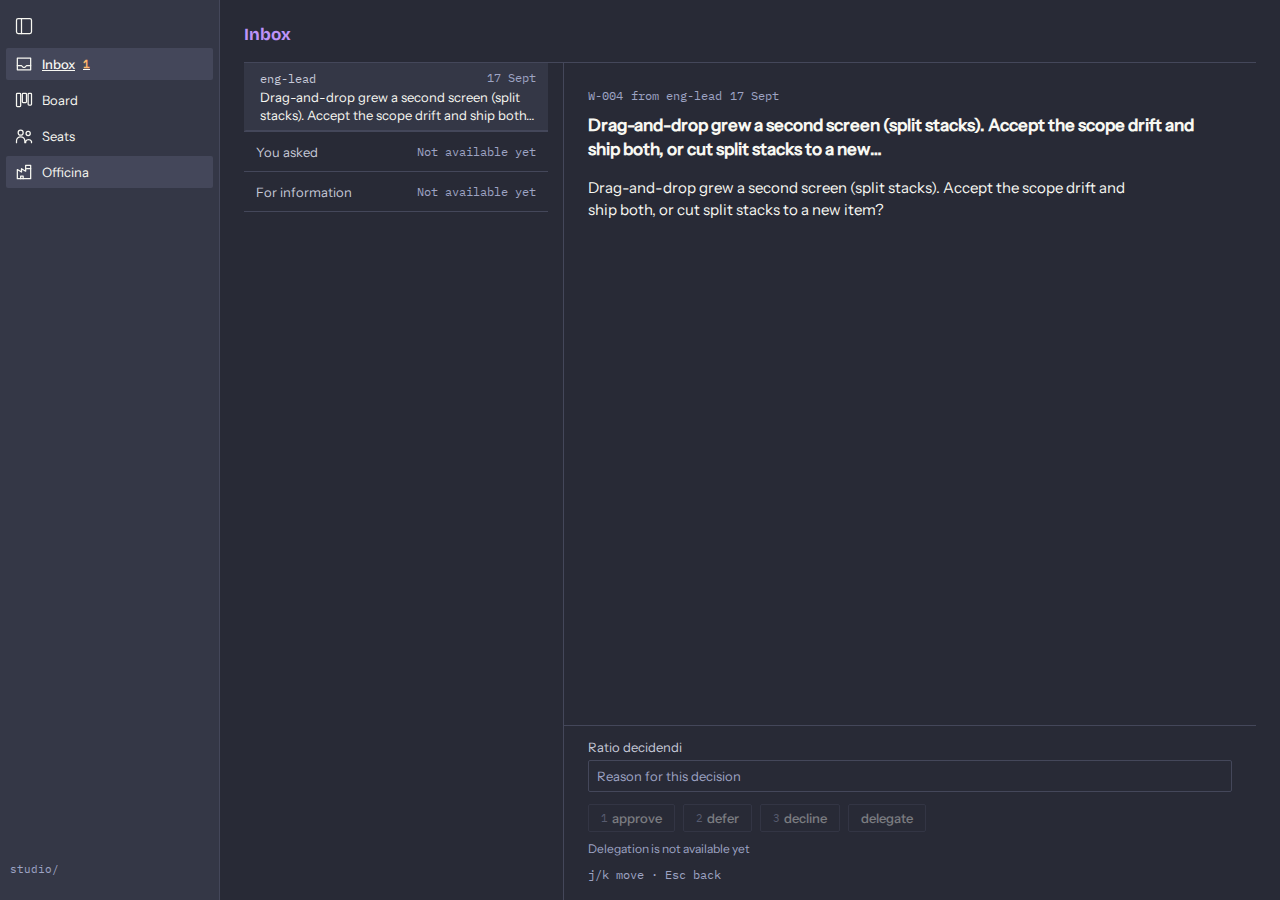
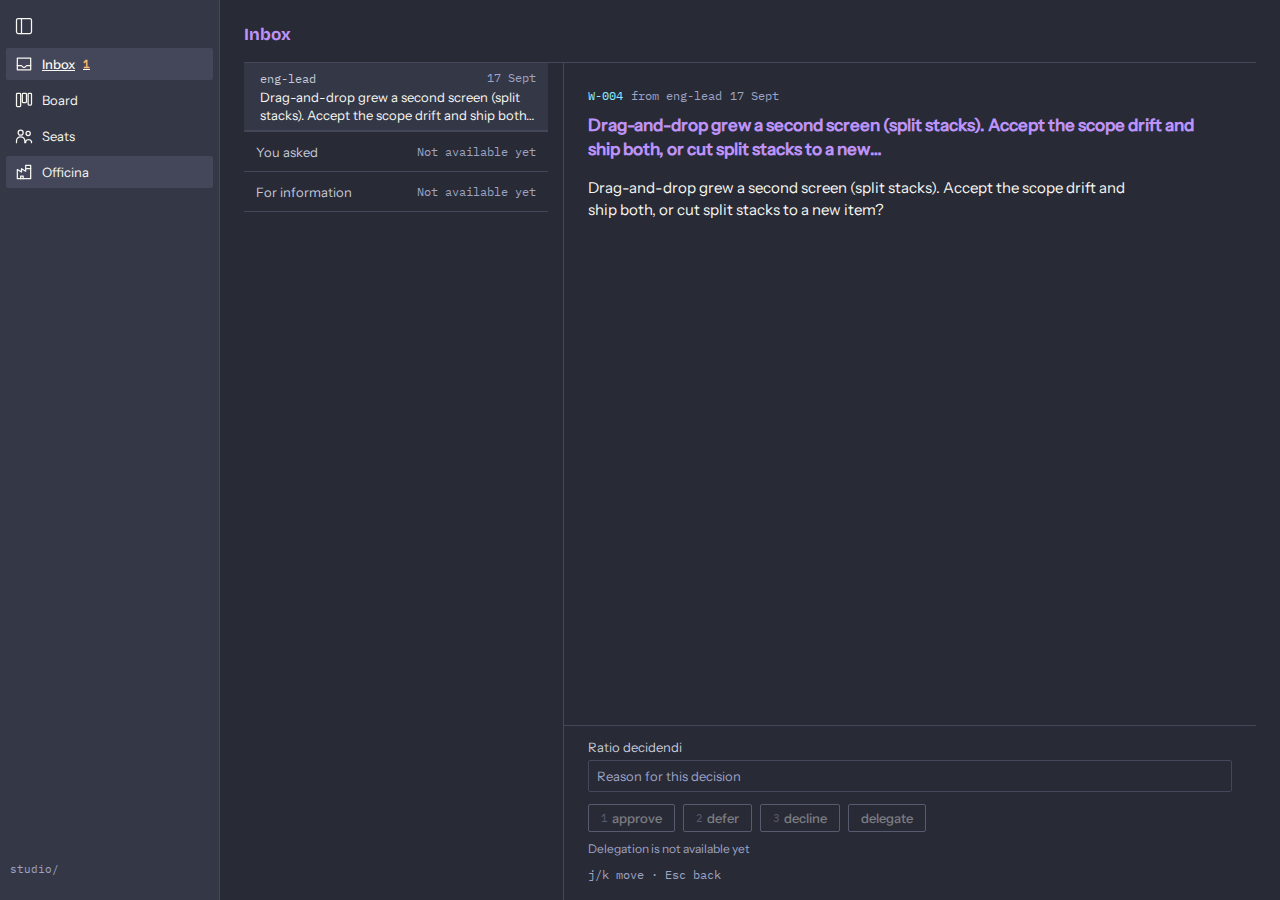
chore(studio): W-407 gates
Claude-Session: https://claude.ai/code/session_01SyVKz9uveWmmYCM43dvPwo

Changed region(s): [[0.4375, 0.1244, 0.9375, 0.1867]]

diff --git a/studio/opera/W-407.md b/studio/opera/W-407.md
@@ -4,7 +4,7 @@ title: "Inbox to DIRECTION §6: one column at a 720px measure, the focused petit
 kind: "ui"
 collegium: "engineering"
 state: verifying
-probationes: { spec: { sella: ui-architect, status: passed, evidence: briefs/W-407.md, at: 2026-10-28T22:13:06.538Z }, tests: { status: passed, evidence: ci/W-407-tests-d1a950fd.log, certifies: tree:d1a950fd513ef4e840ac3f62b2a806f3cdeff571 }, lint: { status: passed, evidence: ci/W-407-lint-d1a950fd.log, certifies: tree:d1a950fd513ef4e840ac3f62b2a806f3cdeff571 }, types: { status: passed, evidence: ci/W-407-types-d1a950fd.log, certifies: tree:d1a950fd513ef4e840ac3f62b2a806f3cdeff571 }, served-e2e: { status: passed, evidence: ci/W-407-served-e2e-d1a950fd.log, certifies: tree:d1a950fd513ef4e840ac3f62b2a806f3cdeff571, at: 2026-10-29T02:02:03.307Z }, review: { sella: qa-lead, status: passed, evidence: ci/W-407-review-2.log, at: 2026-10-29T02:21:19.753Z, model: gpt-5.6-sol } }
+probationes: { spec: { sella: ui-architect, status: passed, evidence: briefs/W-407.md, at: 2026-10-28T22:13:06.538Z }, tests: { status: passed, evidence: ci/W-407-tests-25d848b9.log, certifies: tree:25d848b90b8e00655a2dd0ceebf04317740b9365 }, lint: { status: passed, evidence: ci/W-407-lint-25d848b9.log, certifies: tree:25d848b90b8e00655a2dd0ceebf04317740b9365 }, types: { status: passed, evidence: ci/W-407-types-25d848b9.log, certifies: tree:25d848b90b8e00655a2dd0ceebf04317740b9365 }, served-e2e: { status: passed, evidence: ci/W-407-served-e2e-25d848b9.log, certifies: tree:25d848b90b8e00655a2dd0ceebf04317740b9365, at: 2026-10-29T03:57:11.850Z }, review: { sella: qa-lead, status: passed, evidence: ci/W-407-review-2.log, at: 2026-10-29T02:21:19.753Z, model: gpt-5.6-sol } }
 amendments:
   - at: 2026-10-24T16:37:32.942Z
     sella: guest
@@ -21,9 +21,9 @@ value: 2
 traditio:
   sella: producer
   stage: verifying
-  next: "palette re-sign r17 (Patron 2026-10-29): record the ui-architect signature"
+  next: "review round 3: the W-451-aligned palette build (99c3925d) on the re-signed brief"
   blocked_on: none
-  at: 2026-10-29T02:50:22.780Z
+  at: 2026-10-29T03:56:59.830Z
 builder_runtime: isolated
 spec: briefs/W-407.md
 start: 2026-10-28T22:13:06.538Z
